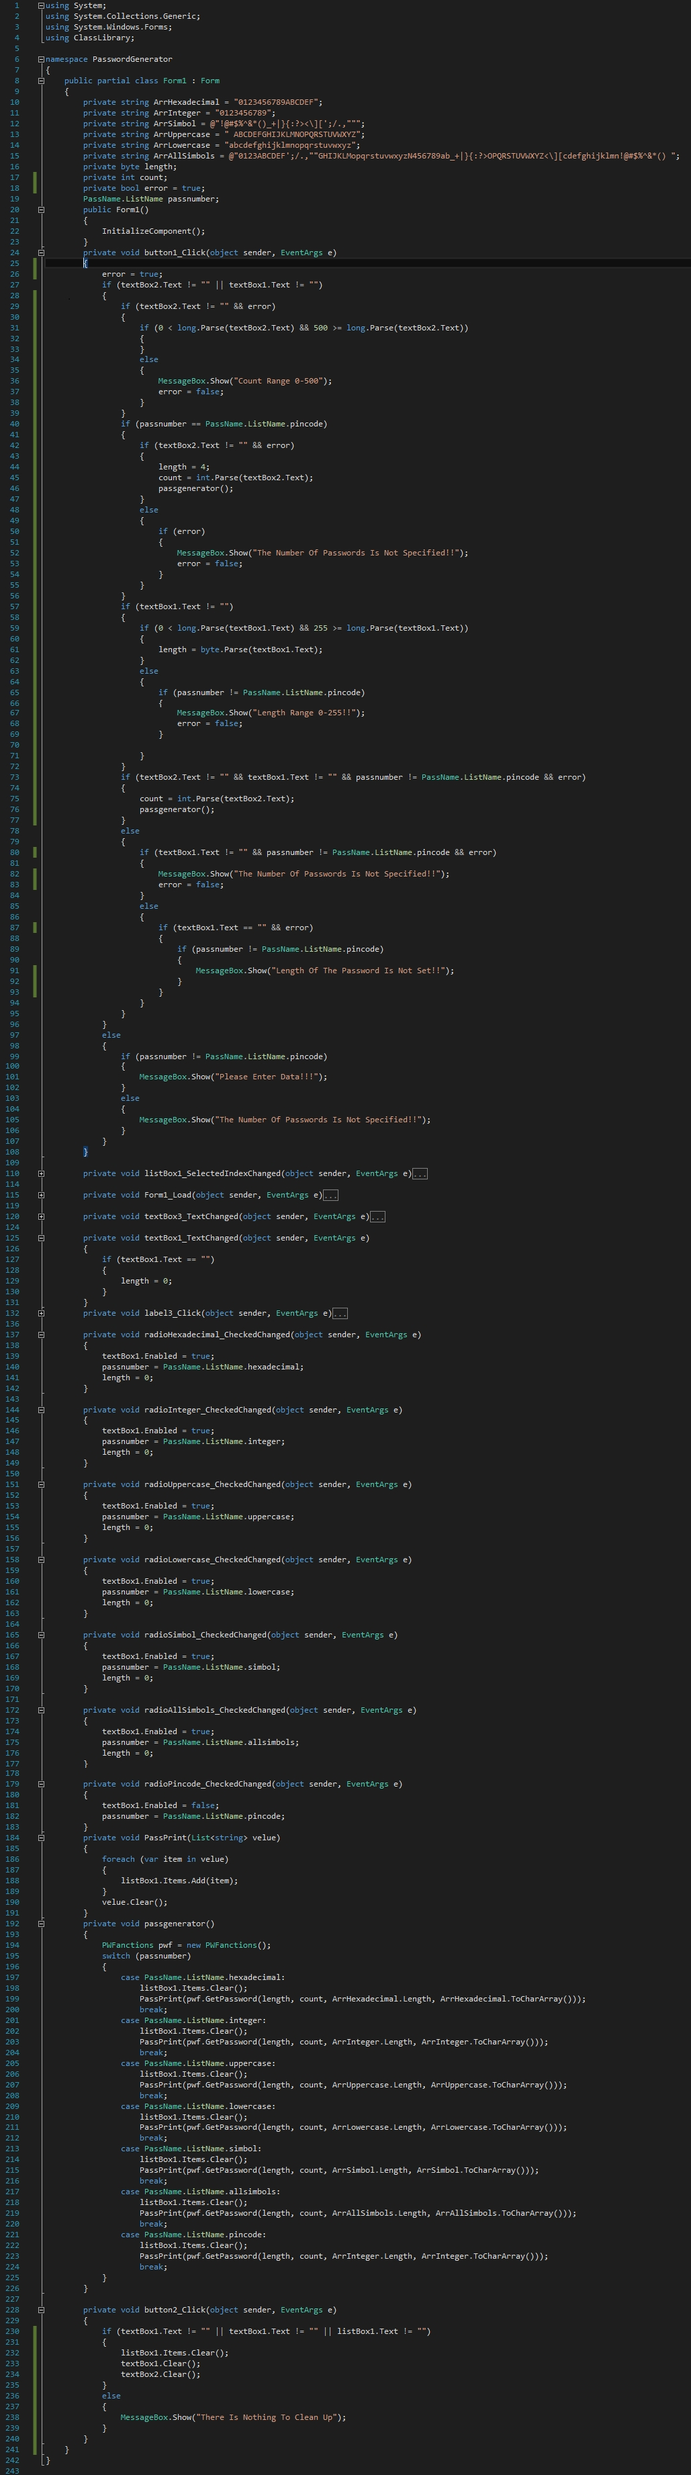
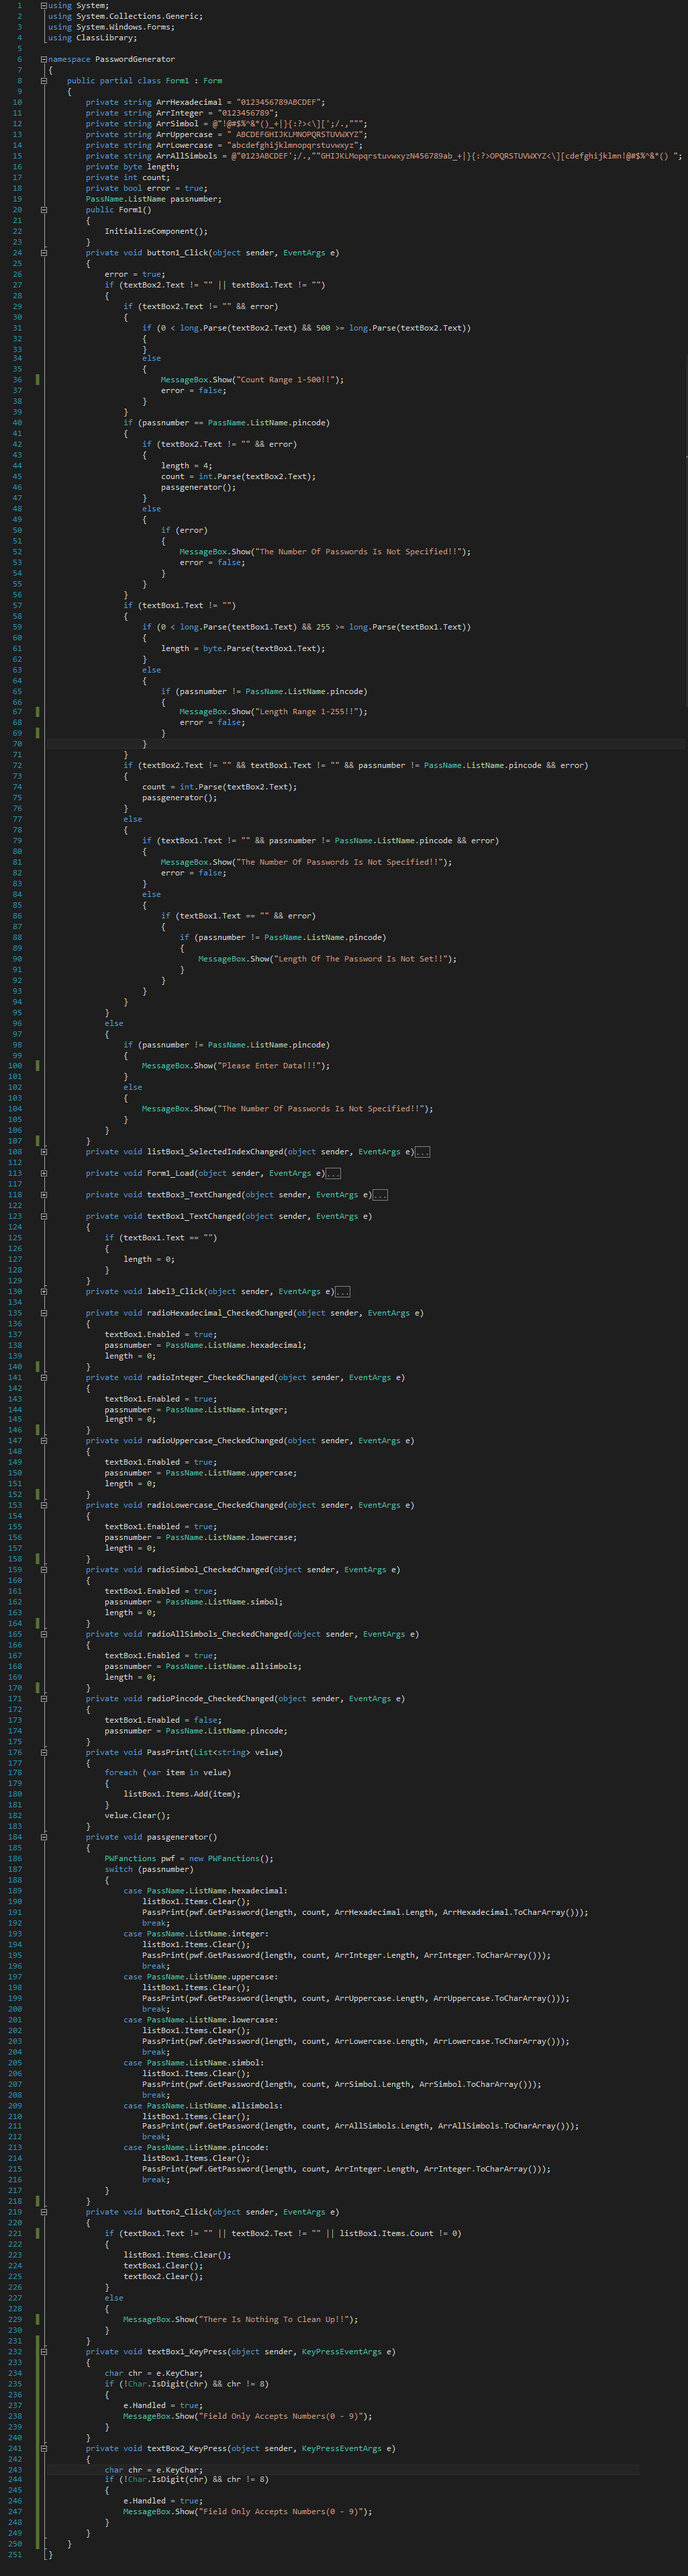
Add Exception

diff --git a/PasswordGenerator/PasswordGenerator/Form1.cs b/PasswordGenerator/PasswordGenerator/Form1.cs
@@ -33,7 +33,7 @@ namespace PasswordGenerator
                     }
                     else
                     {
-                        MessageBox.Show("Count Range 0-500");
+                        MessageBox.Show("Count Range 1-500!!");
                         error = false;
                     }
                 }
@@ -64,10 +64,9 @@ namespace PasswordGenerator
                     {
                         if (passnumber != PassName.ListName.pincode)
                         {
-                            MessageBox.Show("Length Range 0-255!!");
+                            MessageBox.Show("Length Range 1-255!!");
                             error = false;
                         }
-
                     }
                 }
                 if (textBox2.Text != "" && textBox1.Text != "" && passnumber != PassName.ListName.pincode && error)
@@ -106,7 +105,6 @@ namespace PasswordGenerator
                 }
             }
         }
-
         private void listBox1_SelectedIndexChanged(object sender, EventArgs e)
         {
 
@@ -140,42 +138,36 @@ namespace PasswordGenerator
             passnumber = PassName.ListName.hexadecimal;
             length = 0;
         }
-
         private void radioInteger_CheckedChanged(object sender, EventArgs e)
         {
             textBox1.Enabled = true;
             passnumber = PassName.ListName.integer;
             length = 0;
         }
-
         private void radioUppercase_CheckedChanged(object sender, EventArgs e)
         {
             textBox1.Enabled = true;
             passnumber = PassName.ListName.uppercase;
             length = 0;
         }
-
         private void radioLowercase_CheckedChanged(object sender, EventArgs e)
         {
             textBox1.Enabled = true;
             passnumber = PassName.ListName.lowercase;
             length = 0;
         }
-
         private void radioSimbol_CheckedChanged(object sender, EventArgs e)
         {
             textBox1.Enabled = true;
             passnumber = PassName.ListName.simbol;
             length = 0;
         }
-
         private void radioAllSimbols_CheckedChanged(object sender, EventArgs e)
         {
             textBox1.Enabled = true;
             passnumber = PassName.ListName.allsimbols;
             length = 0;
         }
-
         private void radioPincode_CheckedChanged(object sender, EventArgs e)
         {
             textBox1.Enabled = false;
@@ -224,10 +216,9 @@ namespace PasswordGenerator
                     break;
             }
         }
-
         private void button2_Click(object sender, EventArgs e)
         {
-            if (textBox1.Text != "" || textBox1.Text != "" || listBox1.Text != "")
+            if (textBox1.Text != "" || textBox2.Text != "" || listBox1.Items.Count != 0)
             {
                 listBox1.Items.Clear();
                 textBox1.Clear();
@@ -235,7 +226,25 @@ namespace PasswordGenerator
             }
             else
             {
-                MessageBox.Show("There Is Nothing To Clean Up");
+                MessageBox.Show("There Is Nothing To Clean Up!!");
+            }
+        }
+        private void textBox1_KeyPress(object sender, KeyPressEventArgs e)
+        {
+            char chr = e.KeyChar;
+            if (!Char.IsDigit(chr) && chr != 8)
+            {
+                e.Handled = true;
+                MessageBox.Show("Field Only Accepts Numbers(0 - 9)");
+            }
+        }
+        private void textBox2_KeyPress(object sender, KeyPressEventArgs e)
+        {
+            char chr = e.KeyChar;
+            if (!Char.IsDigit(chr) && chr != 8)
+            {
+                e.Handled = true;
+                MessageBox.Show("Field Only Accepts Numbers(0 - 9)");
             }
         }
     }

diff --git a/PasswordGenerator/PasswordGenerator/Form1.Designer.cs b/PasswordGenerator/PasswordGenerator/Form1.Designer.cs
@@ -73,6 +73,7 @@
             this.textBox1.Size = new System.Drawing.Size(100, 20);
             this.textBox1.TabIndex = 3;
             this.textBox1.TextChanged += new System.EventHandler(this.textBox1_TextChanged);
+            this.textBox1.KeyPress += new System.Windows.Forms.KeyPressEventHandler(this.textBox1_KeyPress);
             // 
             // textBox2
             // 
@@ -81,15 +82,16 @@
             this.textBox2.Name = "textBox2";
             this.textBox2.Size = new System.Drawing.Size(100, 20);
             this.textBox2.TabIndex = 3;
+            this.textBox2.KeyPress += new System.Windows.Forms.KeyPressEventHandler(this.textBox2_KeyPress);
             // 
             // label3
             // 
             this.label3.AutoSize = true;
             this.label3.Location = new System.Drawing.Point(234, 9);
             this.label3.Name = "label3";
-            this.label3.Size = new System.Drawing.Size(76, 13);
+            this.label3.Size = new System.Drawing.Size(82, 13);
             this.label3.TabIndex = 6;
-            this.label3.Text = "Lenght (0-255)";
+            this.label3.Text = "Lenght (1 - 255)";
             this.label3.Click += new System.EventHandler(this.label3_Click);
             // 
             // label4
@@ -97,9 +99,9 @@
             this.label4.AutoSize = true;
             this.label4.Location = new System.Drawing.Point(352, 9);
             this.label4.Name = "label4";
-            this.label4.Size = new System.Drawing.Size(35, 13);
+            this.label4.Size = new System.Drawing.Size(77, 13);
             this.label4.TabIndex = 6;
-            this.label4.Text = "Count";
+            this.label4.Text = "Count (1 - 500)";
             this.label4.Click += new System.EventHandler(this.label3_Click);
             // 
             // radioButton1
